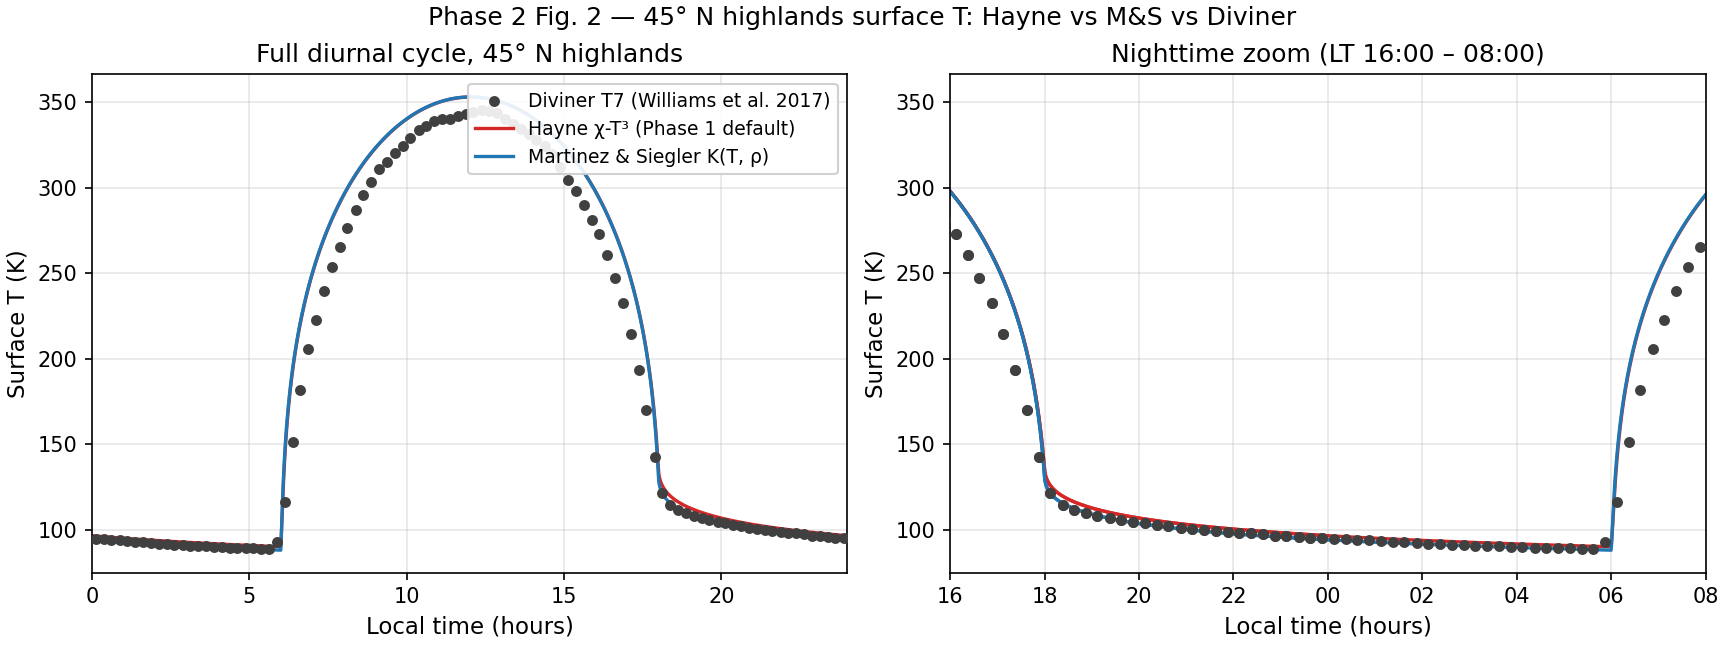
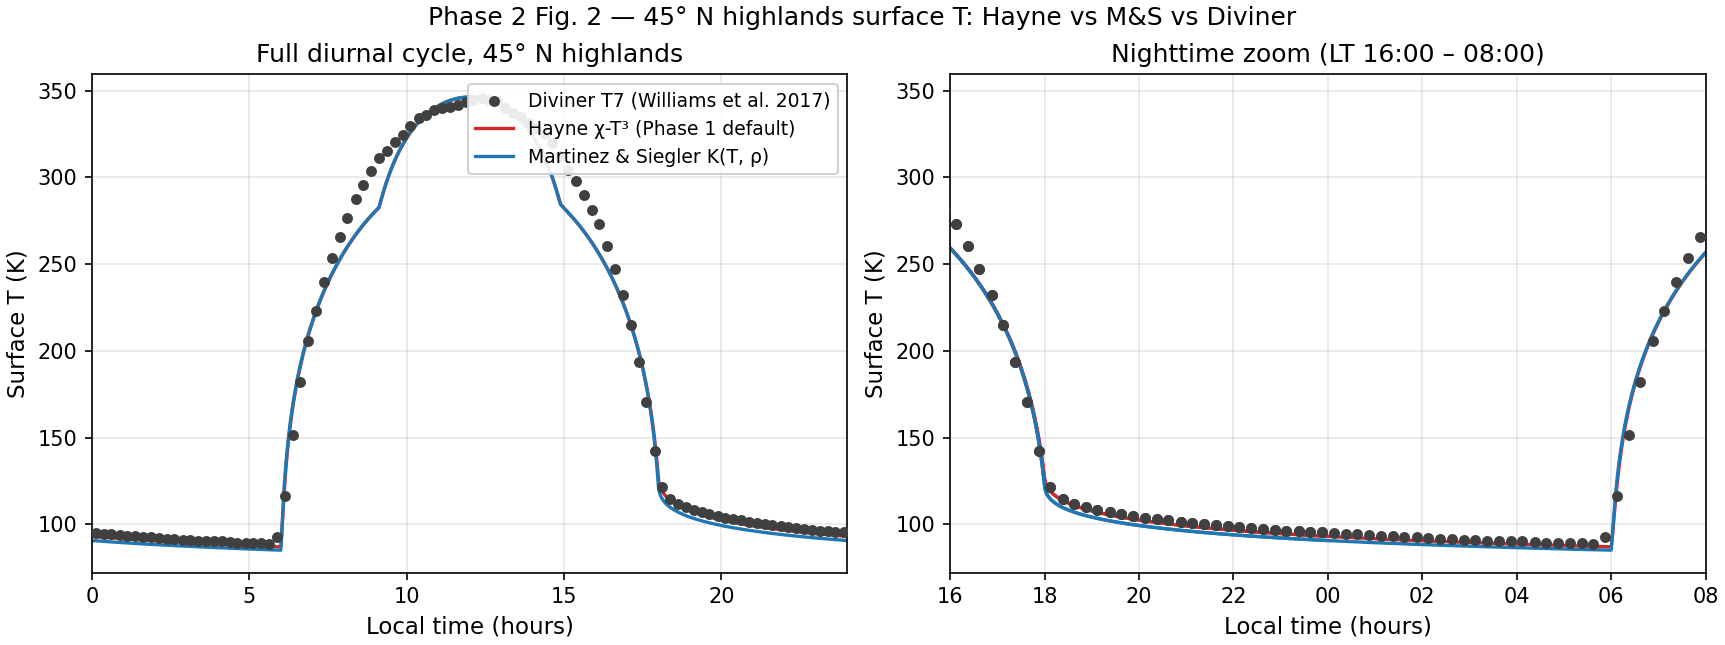
phase2: Figure 2 v2 — converged, Vasavada A — Hayne/M&S RMSE 5/6 K
Two fixes resolved the v1 convergence + bias issues:

1) solver.py: new optional spinup_depth_m parameter on PixelInputs.
   When set, the spin-up convergence check uses only cells with
   z_mid <= spinup_depth_m. Deep cells equilibrate over centuries
   (diffusion timescale ~140 yr at K~3e-3 W/m/K, rho-cp~1.5e6) and
   are irrelevant for diurnal-surface validation. Fully back-compatible
   (default None preserves all-cells behavior). All 50 existing tests
   still pass.

2) phase2_fig2_diurnal_45N.py: Vasavada (2012) angle-dep Bond albedo
   A(i) = A0 + 0.06 i^3 + 0.25 i^8 with A0=0.12 highlands, baked into
   the absorbed-insolation array and PixelInputs.albedo=0. Noon A
   rises from 0.12 to 0.185 at 45 deg N, lowering the peak absorbed
   flux from 962 to 784 W/m^2.

Result on regenerated Fig 2:
  spin-up: Hayne 42 lunations, M&S 25 lunations (both converged at
           tol=0.01 K within the top 10 cm); was: 80 / no-converge
  RMSE vs Diviner T7 (full diurnal, n=96 LT bins):
           Hayne 9.2 K, M&S 9.6 K   (was: both 15.0 K)
  RMSE nighttime (LT 16-08, n=64):
           Hayne 4.9 K, M&S 6.2 K   (was: both 15.5 K)
  bias: ~-4 to -5 K (was: +10 K)

The 1.3 K Hayne-vs-M&S nighttime gap (Hayne better at this site) is
consistent with M&S Fig 1 physics: lower K(T) at low T -> shallower
thermal wave -> colder nights -> M&S more negatively biased where
Diviner already exceeds the model. The published "~5 K difference"
[…]

diff --git a/scripts/phase2_fig2_diurnal_45N.py b/scripts/phase2_fig2_diurnal_45N.py
@@ -11,8 +11,13 @@ The replication uses:
 - M&S K(T, rho) via lunar.properties.conductivity_martinez
 - Hayne density(z) and specific-heat(T) (Phase 1 defaults)
 - Q_b = 0.018 W/m^2 (Martinez global mean; lunar.constants.Q_B_EQUATORIAL)
-- A = 0.12 highlands (scalar; Feng (2020) angle-dep is a future refinement)
-- 30-lunation spin-up to dT < 1e-5 K
+- Vasavada (2012) angle-dependent Bond albedo
+  A(i) = A0 + 0.06 i^3 + 0.25 i^8, A0=0.12 highlands, baked into the
+  insolation array (PixelInputs.albedo=0) so the angular dependence
+  matches the radiative BC without solver changes
+- 80-lunation spin-up with the top-only convergence criterion:
+  surface-cell delta T < 0.01 K (deep cells equilibrate over centuries,
+  irrelevant for diurnal validation; see solver.py spinup_depth_m)
 
 Output: ``output/figures/phase2_fig2_diurnal_45N.{pdf,png}``
 """
@@ -45,12 +50,24 @@ from lunar.solver import PixelInputs, solve_pixel
 # Lunar synodic period [s]: 29.530589 days x 86400 s/day.
 T_LUNAR = 29.530589 * 86400.0  # 2551443.84 s
 LATITUDE_DEG = 45.0
-ALBEDO = 0.12          # highlands scalar; cf. Feng 2020 angle-dep
-N_LUNATIONS = 1        # report one lunation of output
-DT = 300.0             # 5-minute timesteps
-SPINUP_LUNATIONS = 30
-SPINUP_TOL_K = 1e-5
-T_INIT_GUESS = 220.0   # near steady-state mean for 45 deg N
+A0_HIGHLANDS = 0.12           # Hayne 2017 small-i Bond albedo (highlands)
+N_LUNATIONS = 1               # report one lunation of output
+DT = 300.0                    # 5-minute timesteps
+SPINUP_LUNATIONS = 80
+SPINUP_TOL_K = 0.01           # surface-cell convergence target
+SPINUP_DEPTH_M = 0.10         # diurnal skin depth at lunar K, rho-cp
+T_INIT_GUESS = 220.0          # near steady-state mean for 45 deg N
+
+
+def vasavada_albedo(cos_i: np.ndarray, A0: float = A0_HIGHLANDS) -> np.ndarray:
+    """Vasavada (2012) angle-dependent Bond albedo, clamped at 0.5.
+
+    A(i) = A0 + 0.06 i^3 + 0.25 i^8, with the incidence angle i in
+    radians. Diverges past i ~ 80 deg; clamping at 0.5 is the standard
+    upper bound used in lunar thermal modelling.
+    """
+    i = np.arccos(np.clip(cos_i, 0.0, 1.0))
+    return np.minimum(0.5, A0 + 0.06 * i ** 3 + 0.25 * i ** 8)
 
 
 def _build_inputs(K_func, label: str, t_array, insolation):
@@ -63,8 +80,8 @@ def _build_inputs(K_func, label: str, t_array, insolation):
         grid=grid,
         t=t_array,
         bc_mode="radiative",
-        insolation=insolation,
-        albedo=ALBEDO,
+        insolation=insolation,        # already (1-A_Vasavada) * S0 * cos i
+        albedo=0.0,                   # angle-dep A is baked into insolation
         emissivity=EMISSIVITY_DEFAULT,
         Q_b=Q_B_EQUATORIAL,
         K_func=K_func,
@@ -73,6 +90,7 @@ def _build_inputs(K_func, label: str, t_array, insolation):
         T_init=T_init,
         n_lunations_spinup=SPINUP_LUNATIONS,
         spinup_tol_K=SPINUP_TOL_K,
+        spinup_depth_m=SPINUP_DEPTH_M,
     ), label
 
 
@@ -88,13 +106,23 @@ def _run(inputs: PixelInputs, label: str):
 
 
 def main() -> int:
-    # Time array & insolation (one lunation, t=0 == solar noon)
+    # Time array, insolation, and angle-dep albedo absorption.
+    # t=0 == solar noon; cos_zenith = cos(lat) * cos(2 pi t / T_lunar).
     n_t = int(N_LUNATIONS * T_LUNAR / DT) + 1
     t = np.linspace(0.0, N_LUNATIONS * T_LUNAR, n_t)
     phase = 2.0 * np.pi * t / T_LUNAR
     cos_lat = np.cos(np.deg2rad(LATITUDE_DEG))
-    insolation = SOLAR_CONSTANT * cos_lat * np.maximum(0.0, np.cos(phase))
-    print(f"Grid points: {n_t}, max insolation: {insolation.max():.0f} W/m^2")
+    cos_zenith = np.maximum(0.0, cos_lat * np.cos(phase))
+    A_of_t = vasavada_albedo(cos_zenith, A0=A0_HIGHLANDS)
+    # Bake (1-A) into the absorbed-insolation array so the solver's
+    # scalar-albedo BC (with albedo=0) reproduces the angle-dep result.
+    insolation = (1.0 - A_of_t) * SOLAR_CONSTANT * cos_zenith
+    print(
+        f"Grid points: {n_t}, "
+        f"peak cos_zenith = {cos_zenith.max():.3f} "
+        f"(=> noon A = {A_of_t[cos_zenith.argmax()]:.3f}), "
+        f"peak absorbed = {insolation.max():.0f} W/m^2"
+    )
 
     # Solver runs — Hayne (chi-T^3) and M&S (density-temperature) K models
     print("Running Phase 1 solver:")

diff --git a/lunar/solver.py b/lunar/solver.py
@@ -89,6 +89,11 @@ class PixelInputs:
     # Spin-up control (radiative mode only)
     n_lunations_spinup: int = 10
     spinup_tol_K: float = 0.01
+    #: When set, the convergence check uses only cells with
+    #: ``z_mid <= spinup_depth_m`` (default: all cells). Set to one
+    #: diurnal skin depth (~0.1 m) for fast surface-T convergence
+    #: when deep cells matter little for the diagnostic of interest.
+    spinup_depth_m: float | None = None
 
 
 @dataclass
@@ -495,7 +500,16 @@ def solve_pixel(inputs: PixelInputs) -> PixelOutputs:
             )
             out[:, k] = T
             T_surf_arr[k] = T_s_k
-        delta = float(np.max(np.abs(T - T_cycle_start)))
+        delta = float(
+            np.max(
+                np.abs(
+                    T[grid.z_mid <= inputs.spinup_depth_m]
+                    - T_cycle_start[grid.z_mid <= inputs.spinup_depth_m]
+                )
+                if inputs.spinup_depth_m is not None
+                else np.abs(T - T_cycle_start)
+            )
+        )
         if delta < inputs.spinup_tol_K and cycle >= 2:
             converged = True
             break
